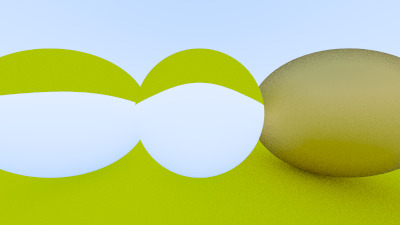
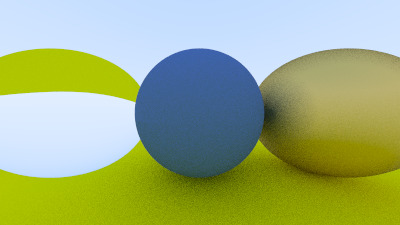
Implement 10.34.

Changed region(s): [[0.24, 0.1867, 0.87, 1.0]]

diff --git a/src/vec3.rs b/src/vec3.rs
@@ -77,6 +77,11 @@ impl Vec3 {
     pub fn refract(&self, n: &Vec3, etai_over_etat: f64) -> Vec3 {
         let normalized_self = self.clone().normalize();
         let cos_theta = -normalized_self.dot(&n);
+        let sin_theta = (1. - cos_theta * cos_theta).sqrt();
+        if etai_over_etat * sin_theta > 1. {
+            // refraction not possible, reflecting instead
+            return self.reflect(n);
+        }
         let r_out_perp = (normalized_self + n.clone() * cos_theta) * etai_over_etat;
         let r_out_parallel = -n.clone() * (1. - r_out_perp.length_squared()).sqrt();
         return r_out_perp + r_out_parallel;

diff --git a/src/lib.rs b/src/lib.rs
@@ -51,7 +51,7 @@ pub fn render() {
     let mut world = HittableList::new();
 
     let material_ground = Rc::new(Lambertian::new(Color::new([0.8, 0.8, 0.0])));
-    let material_center = Rc::new(Dielectric::new(1.5));
+    let material_center = Rc::new(Lambertian::new(Color::new([0.1, 0.2, 0.5])));
     let material_left = Rc::new(Dielectric::new(1.5));
     let material_right = Rc::new(Metal::new(Color::new([0.8, 0.6, 0.2]), 1.0));
 
